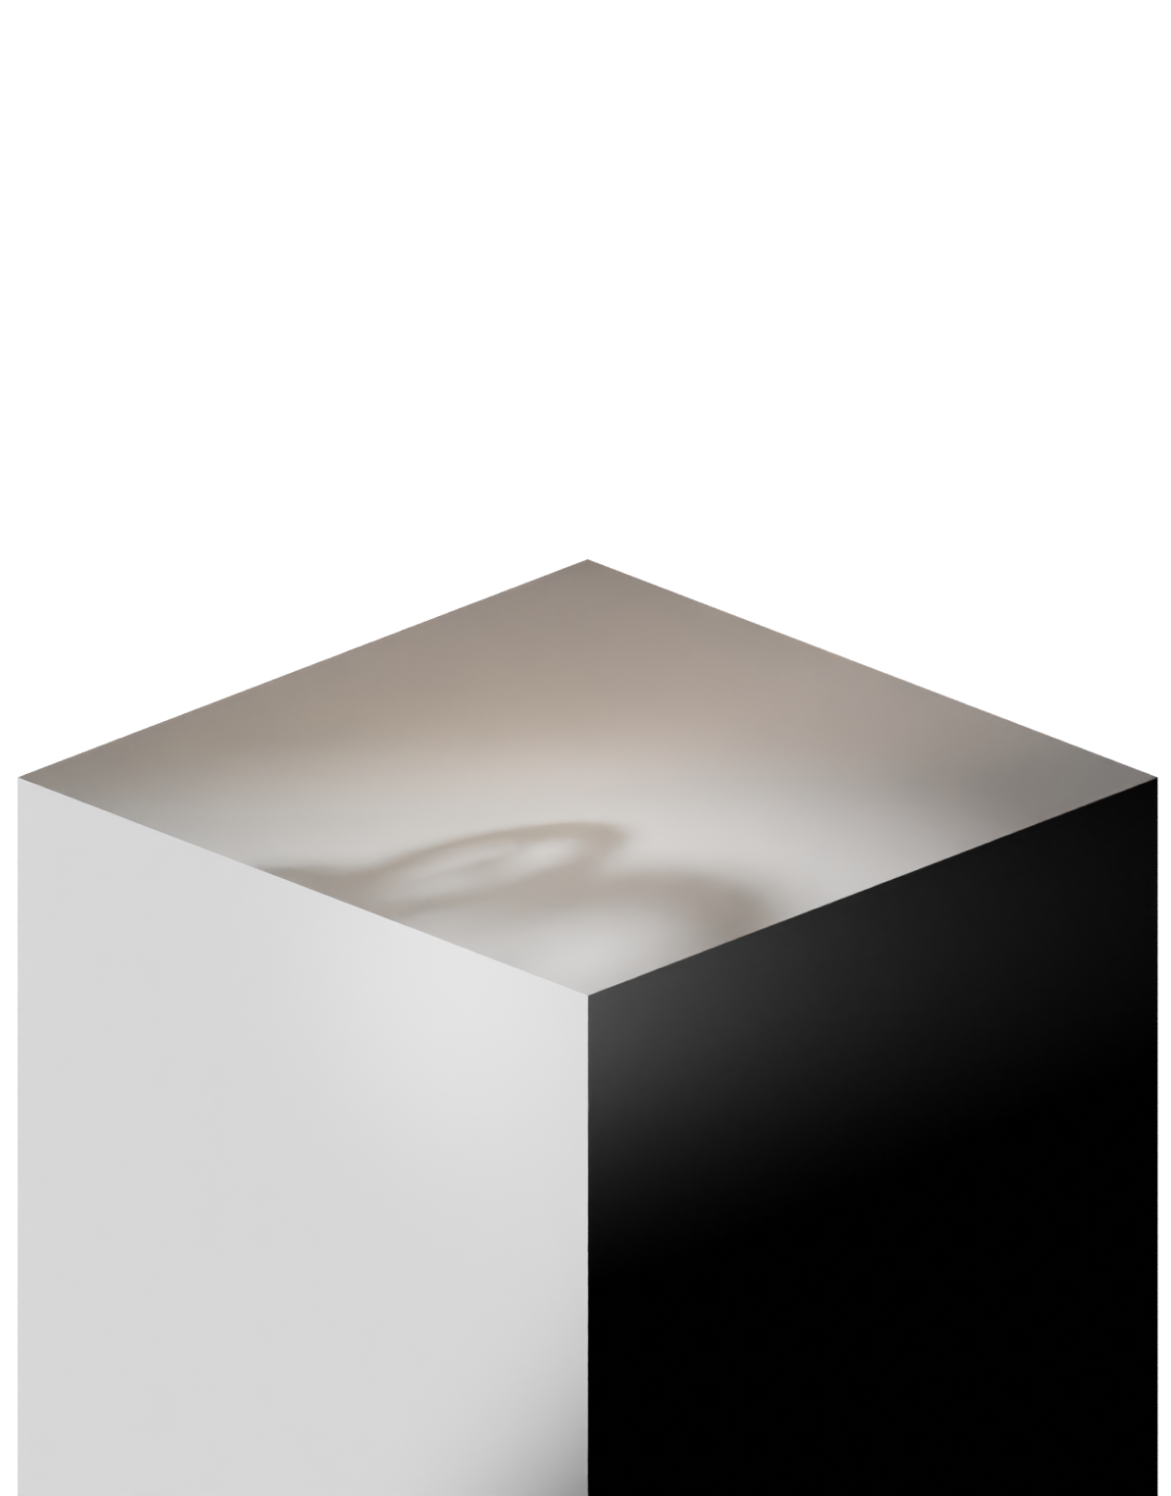
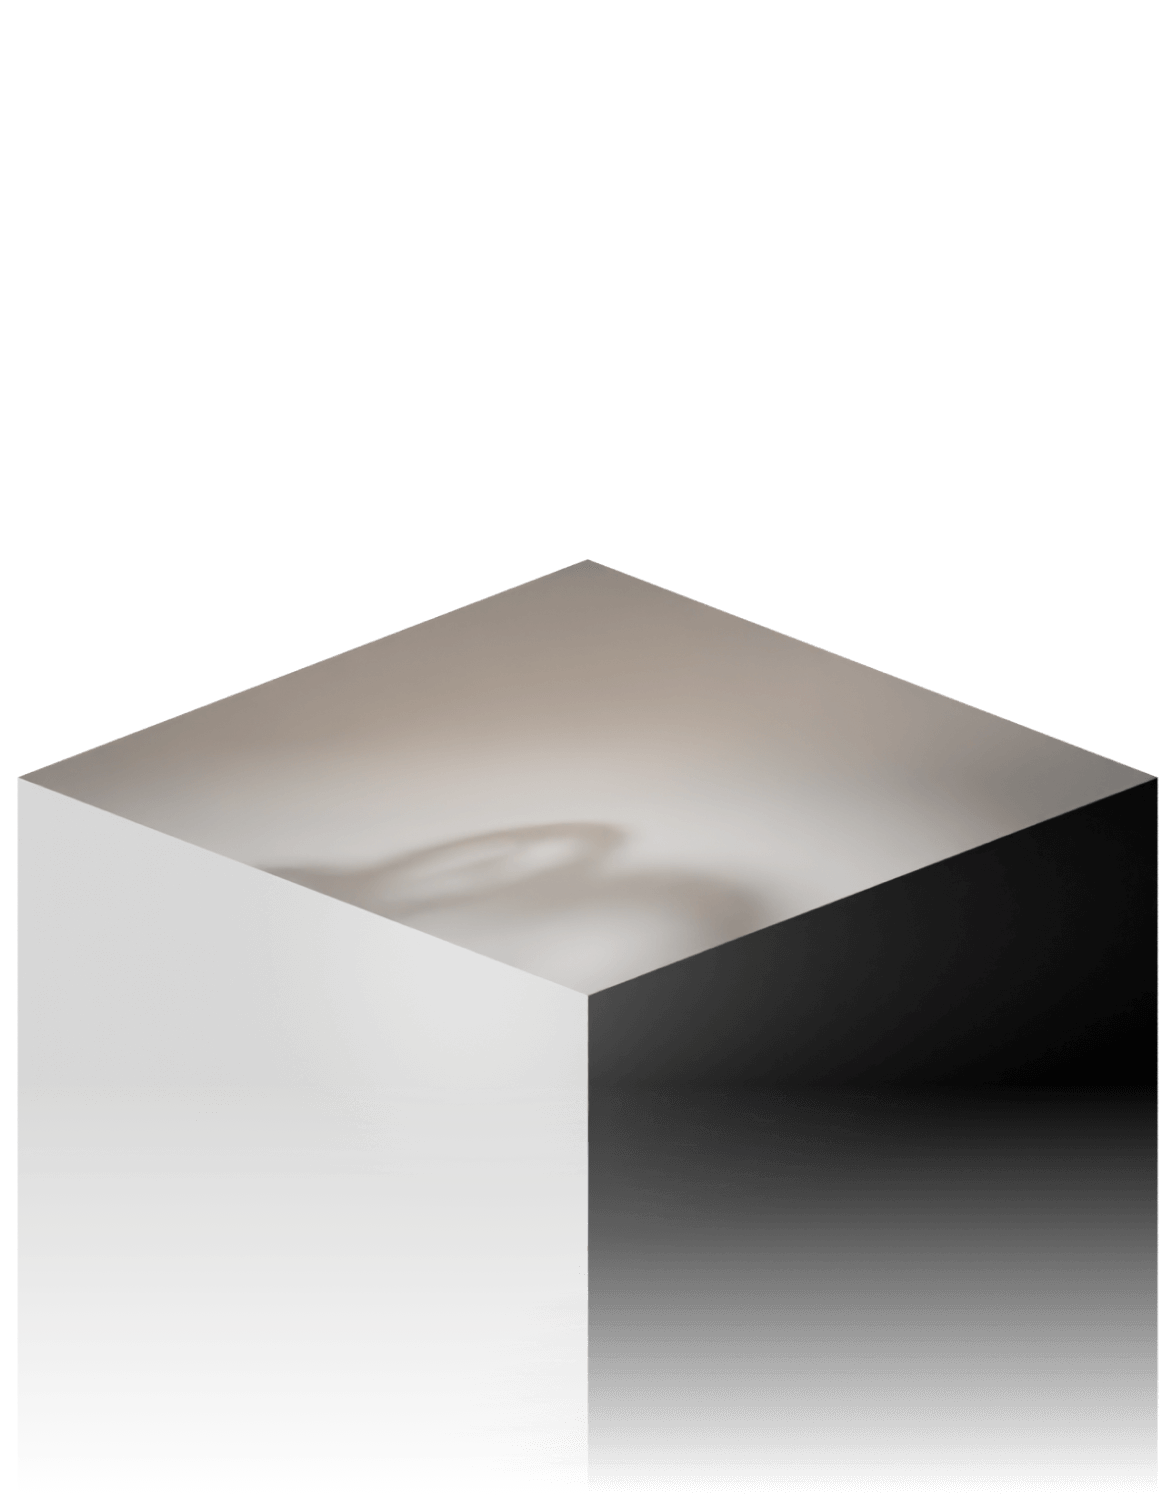
replaced images and added scroll snap

Changed region(s): [[0.0, 0.738, 1.0, 1.0]]

diff --git a/src/home/value.js b/src/home/value.js
@@ -1,5 +1,5 @@
 import React from "react";
-import { useState } from "react";
+import { useState, useRef } from "react";
 import { Parallax } from 'react-scroll-parallax';
 import {Link} from "react-router-dom";
 import { HashLink } from 'react-router-hash-link';
@@ -11,7 +11,8 @@ import Money3 from "./images/Money_White_4.png";
 import Gears1 from "./images/Gears_White_2.png";
 import Gears2 from "./images/Gears_White_3.png";
 import { useInView, InView } from 'react-intersection-observer';
-import { motion, useAnimation } from "framer-motion";
+import useScrollSnap from 'react-use-scroll-snap';
+
 
 const Value = () => {
     var progressNumbers = [false, false, false, false]
@@ -23,7 +24,9 @@ const Value = () => {
         }))
     }
 
-    
+
+    const scrollRef = useRef(null);
+    useScrollSnap({ ref: scrollRef, duration: 50, delay: 5 });
 
     const { ref, inView, entry } = useInView({
         /* Optional options */
@@ -50,71 +53,73 @@ const Value = () => {
                     </div>
                 </div>
             
-                <div className="sticky left-0 top-0 flex-col justify-center self-start pl-8 text-left w-1/2 h-screen bg-blue hidden md:flex rounded-e-[20px]">
+                <div className="md:mt-[-100vh] sticky left-0 top-[5vh] flex-col justify-center self-start pl-8 text-left w-1/2 h-[90vh] bg-blue hidden md:flex rounded-e-[20px]">
                 </div>
 
-                <InView as="div" threshold={.8} onChange={(inView, entry) => inView ? handleProgress(0) : console.log("not in view")} className="hourglass value-text-box flex flex-col md:flex-row-reverse md:gap-10 py-10 md:mt-[-90vh] justify-end md:justify-center md:justify-between items-center min-h-screen relative snap-center" id="time">
-                    <div className="flex flex-col items-center mx-auto md:mx-0 bg-hourglass bg-bottom bg-center bg-[length:450px] md:bg-[length:100%] bg-no-repeat max-h-full w-full md:w-1/2 md:max-w-[430px] absolute md:relative top-0 z-0">
-                        <Parallax translateY={[-20, 15]}>
-                            <img src={Hourglass} alt="Get your time back" className="mx-auto max-w-[450px] md:mx-w-[auto]" />
-                        </Parallax>
-                    </div>
-                    <div className="z-10 md:z-0 flex flex-col justify-end md:justify-center items-start h-full md:min-h-[80vh] md:w-1/2 md:text-white md:pr-28 md:pl-40">
-                        <h2 className="text-5xl leading-loose border-b border-b-blue border-b-solid mb-5 md:hidden">01</h2>
-                        <h3 className="text-3xl">Get your time back</h3>
-                        <p className="text-base leading-8 mt-7">We specialize in taking the burden of inefficient and repetitive tasks off your plate and lets you focus your valuable time on what matters most - your business.</p>
-                        <Link to="/portfolio" className="w-full mt-5 text-blue bg-transparent border border-solid border-blue md:border-white md:text-white text-center py-3 rounded-3xl hover:text-white hover:bg-gold hover:border-gold md:w-48">See Case Studies</Link>
-                    </div>
-                </InView>
-                <InView as="div" threshold={.8} onChange={(inView, entry) => inView ? handleProgress(1) : console.log("not in view")} className="money value-text-box flex flex-col md:flex-row-reverse md:gap-10 justify-end md:justify-center md:justify-between py-10 items-center relative min-h-screen snap-always snap-center" id="profits">
-                    <div className="flex flex-col items-center mx-auto md:mx-0 bg-money bg-no-repeat bg-center bg-[length:450px] md:bg-[length:100%] w-full md:w-1/2 md:max-w-[430px] max-h-full absolute md:relative top-0 z-0" style={{height: 78 + 'vh'}}>
-                        <Parallax translateY={[-45,  25]} className="absolute top-4 z-20">
-                            <img src={Money3} alt="Get your time back" className="mx-auto max-w-[450px] md:mx-w-[auto]" />
-                        </Parallax>
-                        <Parallax translateY={[-35, 20]} className="absolute top-4 z-10">
-                            <img src={Money2} alt="Get your time back" className="mx-auto max-w-[450px] md:mx-w-[auto]" />
-                        </Parallax>
-                        <Parallax translateY={[-25, 0 ]} className="absolute top-12 z-0">
-                            <img src={Money1} alt="Get your time back" className="mx-auto max-w-[450px] md:mx-w-[auto]" />
-                        </Parallax>
-                    </div>
-                    <div className="z-10 md:z-0 relative top-48 md:top-0 pb-48 md:pb-0 flex flex-col justify-end md:justify-center md:min-h-[80vh] items-start h-full md:w-1/2 md:text-white md:pr-28 md:pl-40">
-                        <h2 className="text-5xl leading-loose border-b border-b-blue border-b-solid mb-5 md:hidden">02</h2>
-                        <h3 className="text-3xl">Maximize Your Profits</h3>
-                        <p className="text-base leading-8 mt-7">Cut expenses and maximize profits by making the most of your company’s time and resources. Our cost-effective services are custom tailored to fit your budget, so you can get the help you need without breaking the bank.</p>
-                        <Link to="/pricing" className="w-full mt-5 text-blue bg-transparent border border-solid border-blue md:border-white md:text-white text-center py-3 rounded-3xl hover:text-white hover:bg-gold hover:border-gold md:w-48">See Pricing</Link>
-                    </div>
-                </InView>
-                <InView as="div" threshold={.8} onChange={(inView, entry) => inView ? handleProgress(2) : console.log("not in view")}  className="lightbulb value-text-box flex flex-col md:flex-row-reverse md:gap-10 justify-end md:justify-center md:justify-between py-10 items-center min-h-screen relative snap-always snap-center" id="workSmarter">
-                    <div className="flex flex-col items-center mx-auto md:mx-0 bg-lightbulb bg-bottom bg-center bg-[length:450px] md:bg-[length:100%] bg-no-repeat max-h-full w-full md:w-1/2 md:max-w-[430px] absolute md:relative top-0 z-0">
-                        <Parallax translateY={[-20, 15 ]}>
-                            <img src={Lightbulb} alt="Lightbulb" className="mx-auto max-w-[450px] md:mx-w-[auto]" />
-                        </Parallax>
-                        <div className=" h-72 w-full absolute bottom-0"></div>
-                    </div>
-                    <div className="z-10 md:z-0 flex flex-col justify-end md:justify-center items-start h-full md:min-h-[80vh] md:w-1/2 md:text-white md:pr-28 md:pl-40">
-                        <h2 className="text-5xl leading-loose border-b border-b-blue border-b-solid mb-5 md:hidden">03</h2>
-                        <h3 className="text-3xl">Work Smarter</h3>
-                        <p className="text-base leading-8 mt-7">We specialize in taking the burden of inefficient and repetitive tasks off your plate and lets you focus your valuable time on what matters most - your business.</p>
-                        <HashLink className="w-full mt-5 text-blue bg-transparent border border-solid border-blue md:border-white md:text-white text-center py-3 rounded-3xl hover:text-white hover:bg-gold hover:border-gold md:w-48" href="#contact">Learn More</HashLink>
-                    </div>
-                </InView>
-                <InView as="div" threshold={.8} onChange={(inView, entry) => inView ? handleProgress(3) : console.log("not in view")}  className="flex flex-col md:flex-row-reverse md:gap-10 justify-end md:justify-center md:justify-between py-10 items-center relative min-h-screen snap-always snap-center gears value-text-box" id="professionals">
-                    <div className="flex flex-col items-center mx-auto md:mx-0 bg-gears bg-no-repeat bg-center bg-[length:450px] md:bg-[length:100%] w-full md:w-1/2 md:max-w-[430px] max-h-full absolute md:relative top-0 z-0" style={{height: 78 + 'vh'}}>
-                        <Parallax translateY={[-35, 25]} className="absolute top-4 z-10">
-                            <img src={Gears2} alt="Gears" className="mx-auto max-w-[450px] md:mx-w-[auto]" />
-                        </Parallax>
-                        <Parallax translateY={[-20, 0 ]} className="absolute top-20 z-0">
-                            <img src={Gears1} alt="Gears" className="mx-auto max-w-[450px] md:mx-w-[auto]" />
-                        </Parallax>
-                    </div>
-                    <div className="z-10 md:z-0 relative top-48 md:top-0 pb-48 md:pb-0 flex flex-col justify-end md:justify-center items-start h-full md:min-h-[80vh] md:w-1/2 md:text-white md:pr-28 md:pl-40">
-                        <h2 className="text-5xl leading-loose border-b border-b-blue border-b-solid mb-5 md:hidden">04</h2>
-                        <h3 className="text-3xl">Access Industry Professionals</h3>
-                        <p className="text-base leading-8 mt-7">In addition to fractional project management, our team has experience in design, web development, and marketing - giving you access to a diverse range of tools and skillsets.</p>
-                        <Link to="/about" className="w-full mt-5 text-blue bg-transparent border border-solid border-blue md:border-white md:text-white text-center py-3 rounded-3xl hover:text-white hover:bg-gold hover:border-gold md:w-48">See our Team</Link>
-                    </div>
-                </InView>
+                <div id="scroll-container" ref={scrollRef}>
+                    <InView as="div" threshold={.8} onChange={(inView, entry) => inView ? handleProgress(0) : console.log("not in view")} className="mt-36 md:mt-0 slide hourglass value-text-box flex flex-col md:flex-row-reverse md:gap-10 py-10 md:mt-[-90vh] justify-end md:justify-center md:justify-between items-center min-h-screen relative snap-center" id="time">
+                        <div className="flex flex-col items-center mx-auto md:mx-0 bg-hourglass bg-bottom bg-center bg-[length:450px] md:bg-[length:100%] bg-no-repeat max-h-full w-full md:w-1/2 md:max-w-[430px] absolute md:relative top-0 z-0">
+                            <Parallax translateY={[-20, 15]}>
+                                <img src={Hourglass} alt="Get your time back" className="mx-auto max-w-[350px] lg:max-w-[450px] md:mx-w-[auto]" />
+                            </Parallax>
+                        </div>
+                        <div className="z-10 md:z-0 flex flex-col justify-end md:justify-center items-start h-full md:min-h-[80vh] md:w-1/2 md:text-white md:pr-8 lg:pr-28 md:pl-40">
+                            <h2 className="text-5xl leading-loose border-b border-b-blue border-b-solid mb-5 md:hidden">01</h2>
+                            <h3 className="text-3xl">Get your time back</h3>
+                            <p className="text-base leading-8 mt-7">We specialize in taking the burden of inefficient and repetitive tasks off your plate and lets you focus your valuable time on what matters most - your business.</p>
+                            <Link to="/portfolio" className="w-full mt-5 text-blue bg-transparent border border-solid border-blue md:border-white md:text-white text-center py-3 rounded-3xl hover:text-white hover:bg-gold hover:border-gold md:w-48">See Case Studies</Link>
+                        </div>
+                    </InView>
+                    <InView as="div" threshold={.8} onChange={(inView, entry) => inView ? handleProgress(1) : console.log("not in view")} className="mt-36 md:mt-0 slide money value-text-box flex flex-col md:flex-row-reverse md:gap-10 justify-end md:justify-center md:justify-between py-10 items-center relative min-h-screen snap-always snap-center" id="profits">
+                        <div className="flex flex-col items-center mx-auto md:mx-0 bg-money bg-no-repeat bg-center bg-[length:450px] md:bg-[length:100%] w-full md:w-1/2 md:max-w-[430px] max-h-full absolute md:relative top-0 z-0" style={{height: 78 + 'vh'}}>
+                            <Parallax translateY={[-35,  25]} className="absolute top-4 z-20">
+                                <img src={Money3} alt="Get your time back" className="mx-auto max-w-[350px] lg:max-w-[450px] md:mx-w-[auto]" />
+                            </Parallax>
+                            <Parallax translateY={[-25, 20]} className="absolute top-4 z-10">
+                                <img src={Money2} alt="Get your time back" className="mx-auto max-w-[350px] lg:max-w-[450px] md:mx-w-[auto]" />
+                            </Parallax>
+                            <Parallax translateY={[-15, 0 ]} className="absolute top-12 z-0">
+                                <img src={Money1} alt="Get your time back" className="mx-auto max-w-[350px] lg:max-w-[450px] md:mx-w-[auto]" />
+                            </Parallax>
+                        </div>
+                        <div className="z-10 md:z-0 relative top-48 md:top-0 pb-48 md:pb-0 flex flex-col justify-end md:justify-center md:min-h-[80vh] items-start h-full md:w-1/2 md:text-white md:pr-8 lg:pr-28 md:pl-40">
+                            <h2 className="text-5xl leading-loose border-b border-b-blue border-b-solid mb-5 md:hidden">02</h2>
+                            <h3 className="text-3xl">Maximize Your Profits</h3>
+                            <p className="text-base leading-8 mt-7">Cut expenses and maximize profits by making the most of your company’s time and resources. Our cost-effective services are custom tailored to fit your budget, so you can get the help you need without breaking the bank.</p>
+                            <Link to="/pricing" className="w-full mt-5 text-blue bg-transparent border border-solid border-blue md:border-white md:text-white text-center py-3 rounded-3xl hover:text-white hover:bg-gold hover:border-gold md:w-48">See Pricing</Link>
+                        </div>
+                    </InView>
+                    <InView as="div" threshold={.8} onChange={(inView, entry) => inView ? handleProgress(2) : console.log("not in view")}  className="mt-36 md:mt-0 slide lightbulb value-text-box flex flex-col md:flex-row-reverse md:gap-10 justify-end md:justify-center md:justify-between py-10 items-center min-h-screen relative snap-always snap-center" id="workSmarter">
+                        <div className="flex flex-col items-center mx-auto md:mx-0 bg-lightbulb bg-bottom bg-center bg-[length:450px] md:bg-[length:100%] bg-no-repeat max-h-full w-full md:w-1/2 md:max-w-[430px] absolute md:relative top-0 z-0">
+                            <Parallax translateY={[-20, 15 ]}>
+                                <img src={Lightbulb} alt="Lightbulb" className="mx-auto max-w-[350px] lg:max-w-[450px] md:mx-w-[auto]" />
+                            </Parallax>
+                            <div className=" h-72 w-full absolute bottom-0"></div>
+                        </div>
+                        <div className="z-10 md:z-0 flex flex-col justify-end md:justify-center items-start h-full md:min-h-[80vh] md:w-1/2 md:text-white md:pr-8 lg:pr-28 md:pl-40">
+                            <h2 className="text-5xl leading-loose border-b border-b-blue border-b-solid mb-5 md:hidden">03</h2>
+                            <h3 className="text-3xl">Work Smarter</h3>
+                            <p className="text-base leading-8 mt-7">We specialize in taking the burden of inefficient and repetitive tasks off your plate and lets you focus your valuable time on what matters most - your business.</p>
+                            <HashLink className="w-full mt-5 text-blue bg-transparent border border-solid border-blue md:border-white md:text-white text-center py-3 rounded-3xl hover:text-white hover:bg-gold hover:border-gold md:w-48" href="#contact">Learn More</HashLink>
+                        </div>
+                    </InView>
+                    <InView as="div" threshold={.8} onChange={(inView, entry) => inView ? handleProgress(3) : console.log("not in view")}  className="mt-36 md:mt-0 slide flex flex-col md:flex-row-reverse md:gap-10 justify-end md:justify-center md:justify-between py-10 items-center relative min-h-screen snap-always snap-center gears value-text-box" id="professionals">
+                        <div className="flex flex-col items-center mx-auto md:mx-0 bg-gears bg-no-repeat bg-center bg-[length:450px] md:bg-[length:100%] w-full md:w-1/2 md:max-w-[430px] max-h-full absolute md:relative top-0 z-0" style={{height: 78 + 'vh'}}>
+                            <Parallax translateY={[-30, 15]} className="absolute top-4 z-10">
+                                <img src={Gears2} alt="Gears" className="mx-auto max-w-[350px] lg:max-w-[450px] md:mx-w-[auto]" />
+                            </Parallax>
+                            <Parallax translateY={[-20, 0 ]} className="absolute top-20 z-0">
+                                <img src={Gears1} alt="Gears" className="mx-auto max-w-[350px] lg:max-w-[450px] md:mx-w-[auto]" />
+                            </Parallax>
+                        </div>
+                        <div className="z-10 md:z-0 relative top-48 md:top-0 pb-48 md:pb-0 flex flex-col justify-end md:justify-center items-start h-full md:min-h-[80vh] md:w-1/2 md:text-white md:pr-8 lg:pr-28 md:pl-40">
+                            <h2 className="text-5xl leading-loose border-b border-b-blue border-b-solid mb-5 md:hidden">04</h2>
+                            <h3 className="text-3xl">Access Industry Professionals</h3>
+                            <p className="text-base leading-8 mt-7">In addition to fractional project management, our team has experience in design, web development, and marketing - giving you access to a diverse range of tools and skillsets.</p>
+                            <Link to="/about" className="w-full mt-5 text-blue bg-transparent border border-solid border-blue md:border-white md:text-white text-center py-3 rounded-3xl hover:text-white hover:bg-gold hover:border-gold md:w-48">See our Team</Link>
+                        </div>
+                    </InView>
+                </div>
             </div>
         </div>
     )
